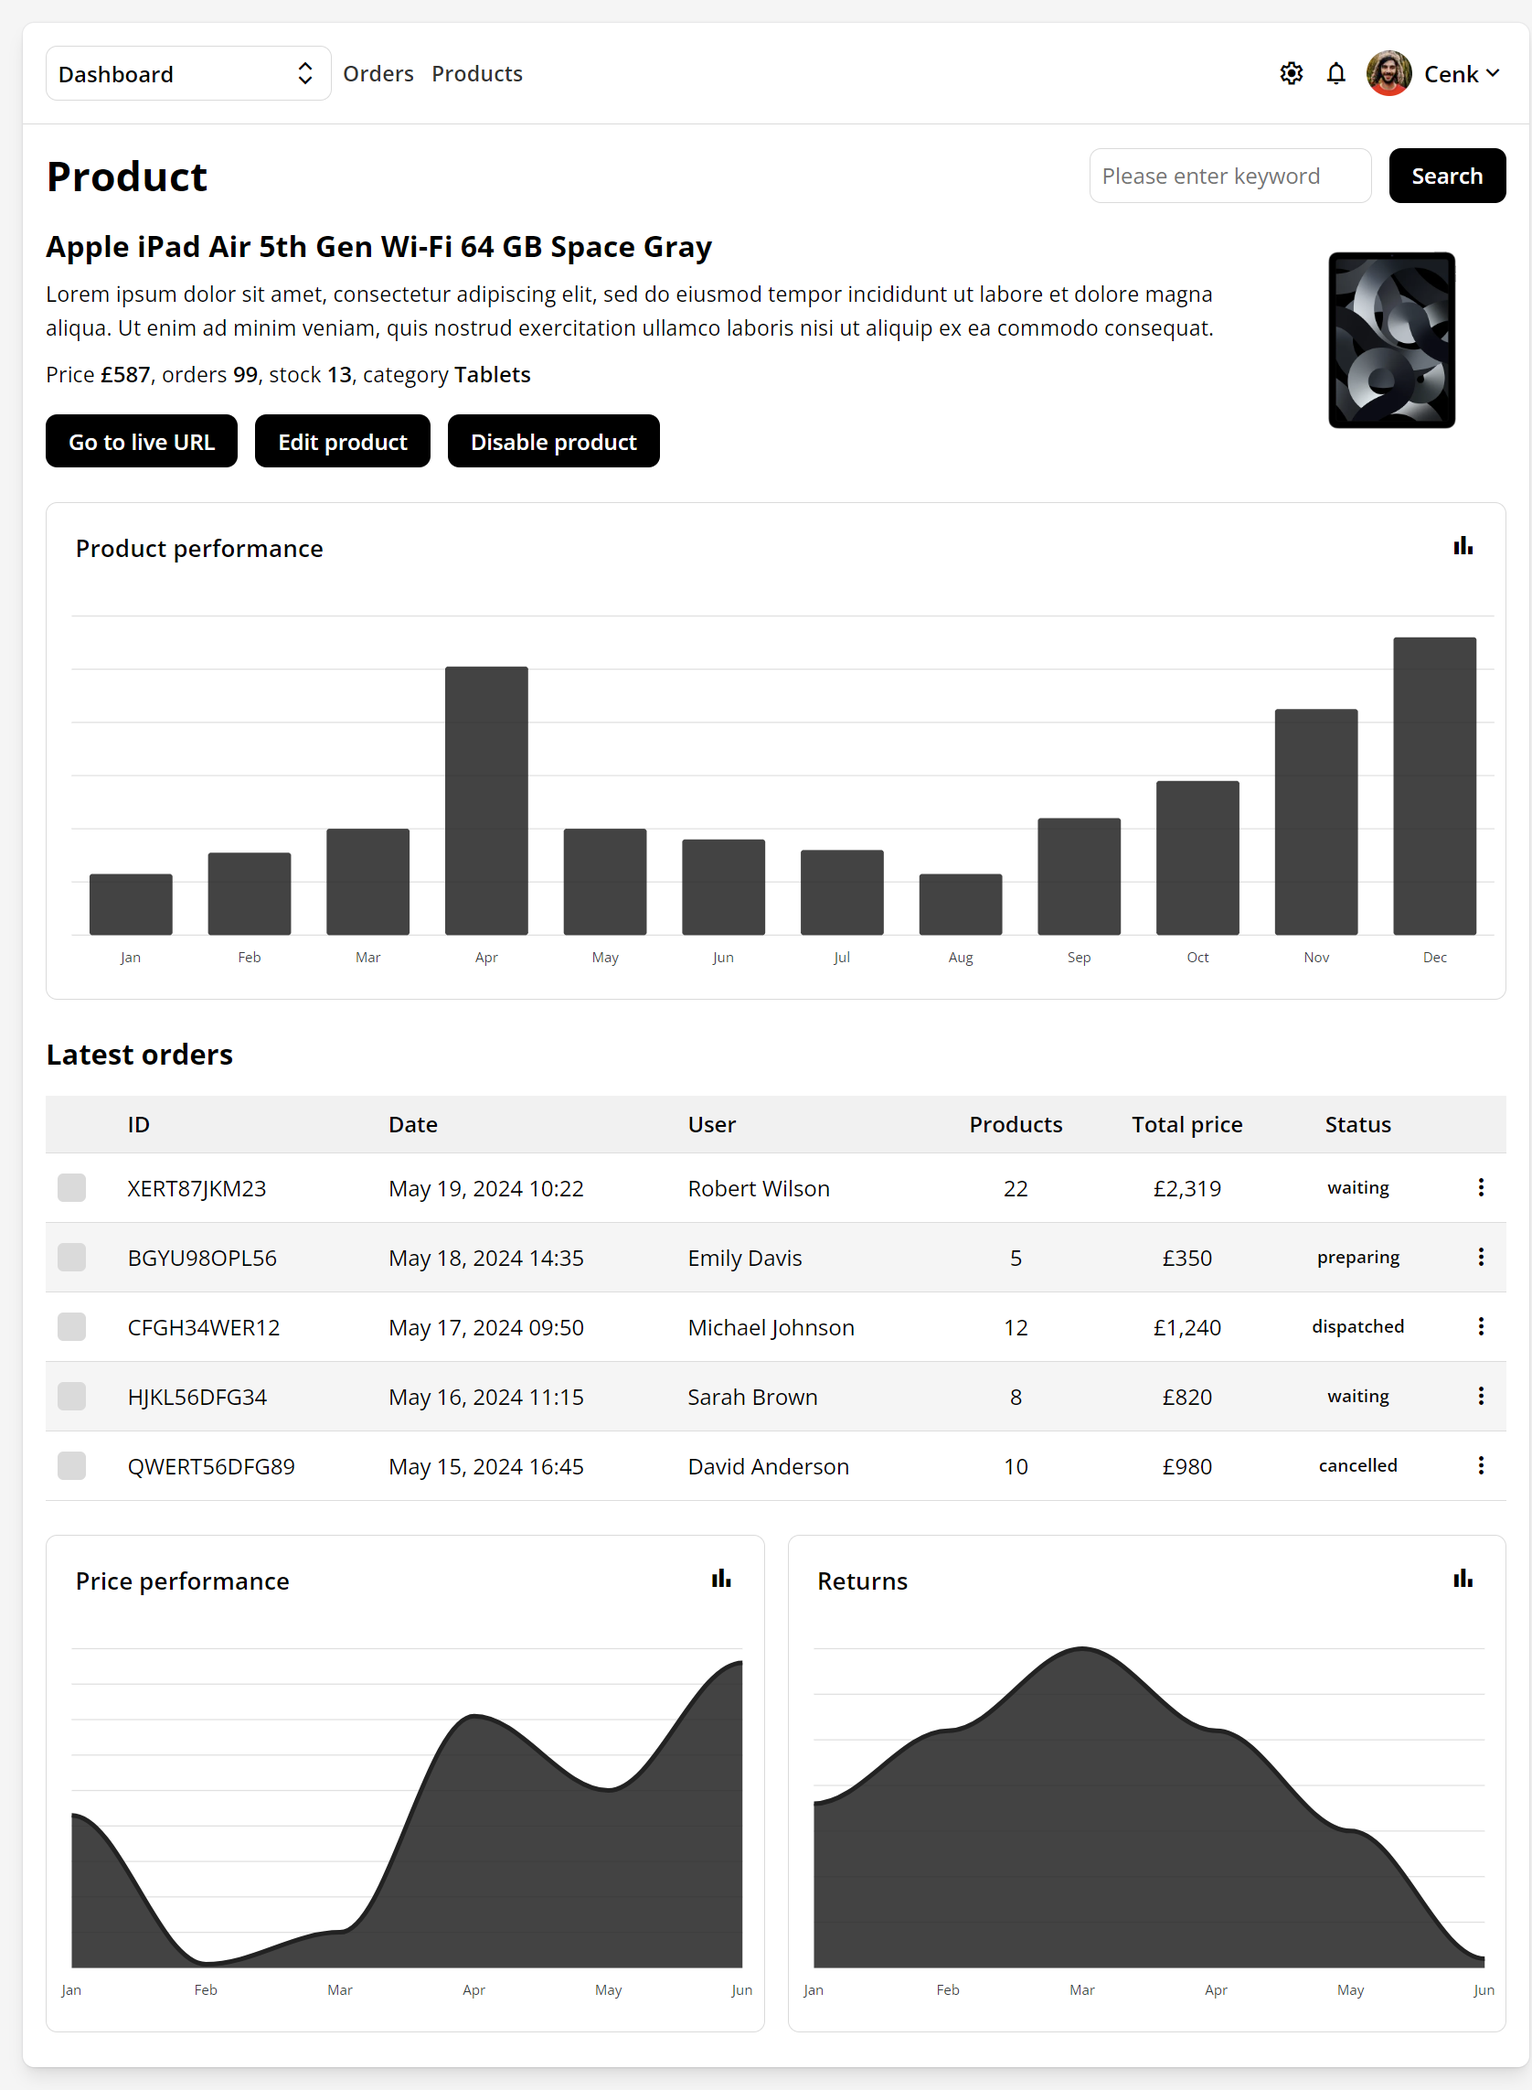
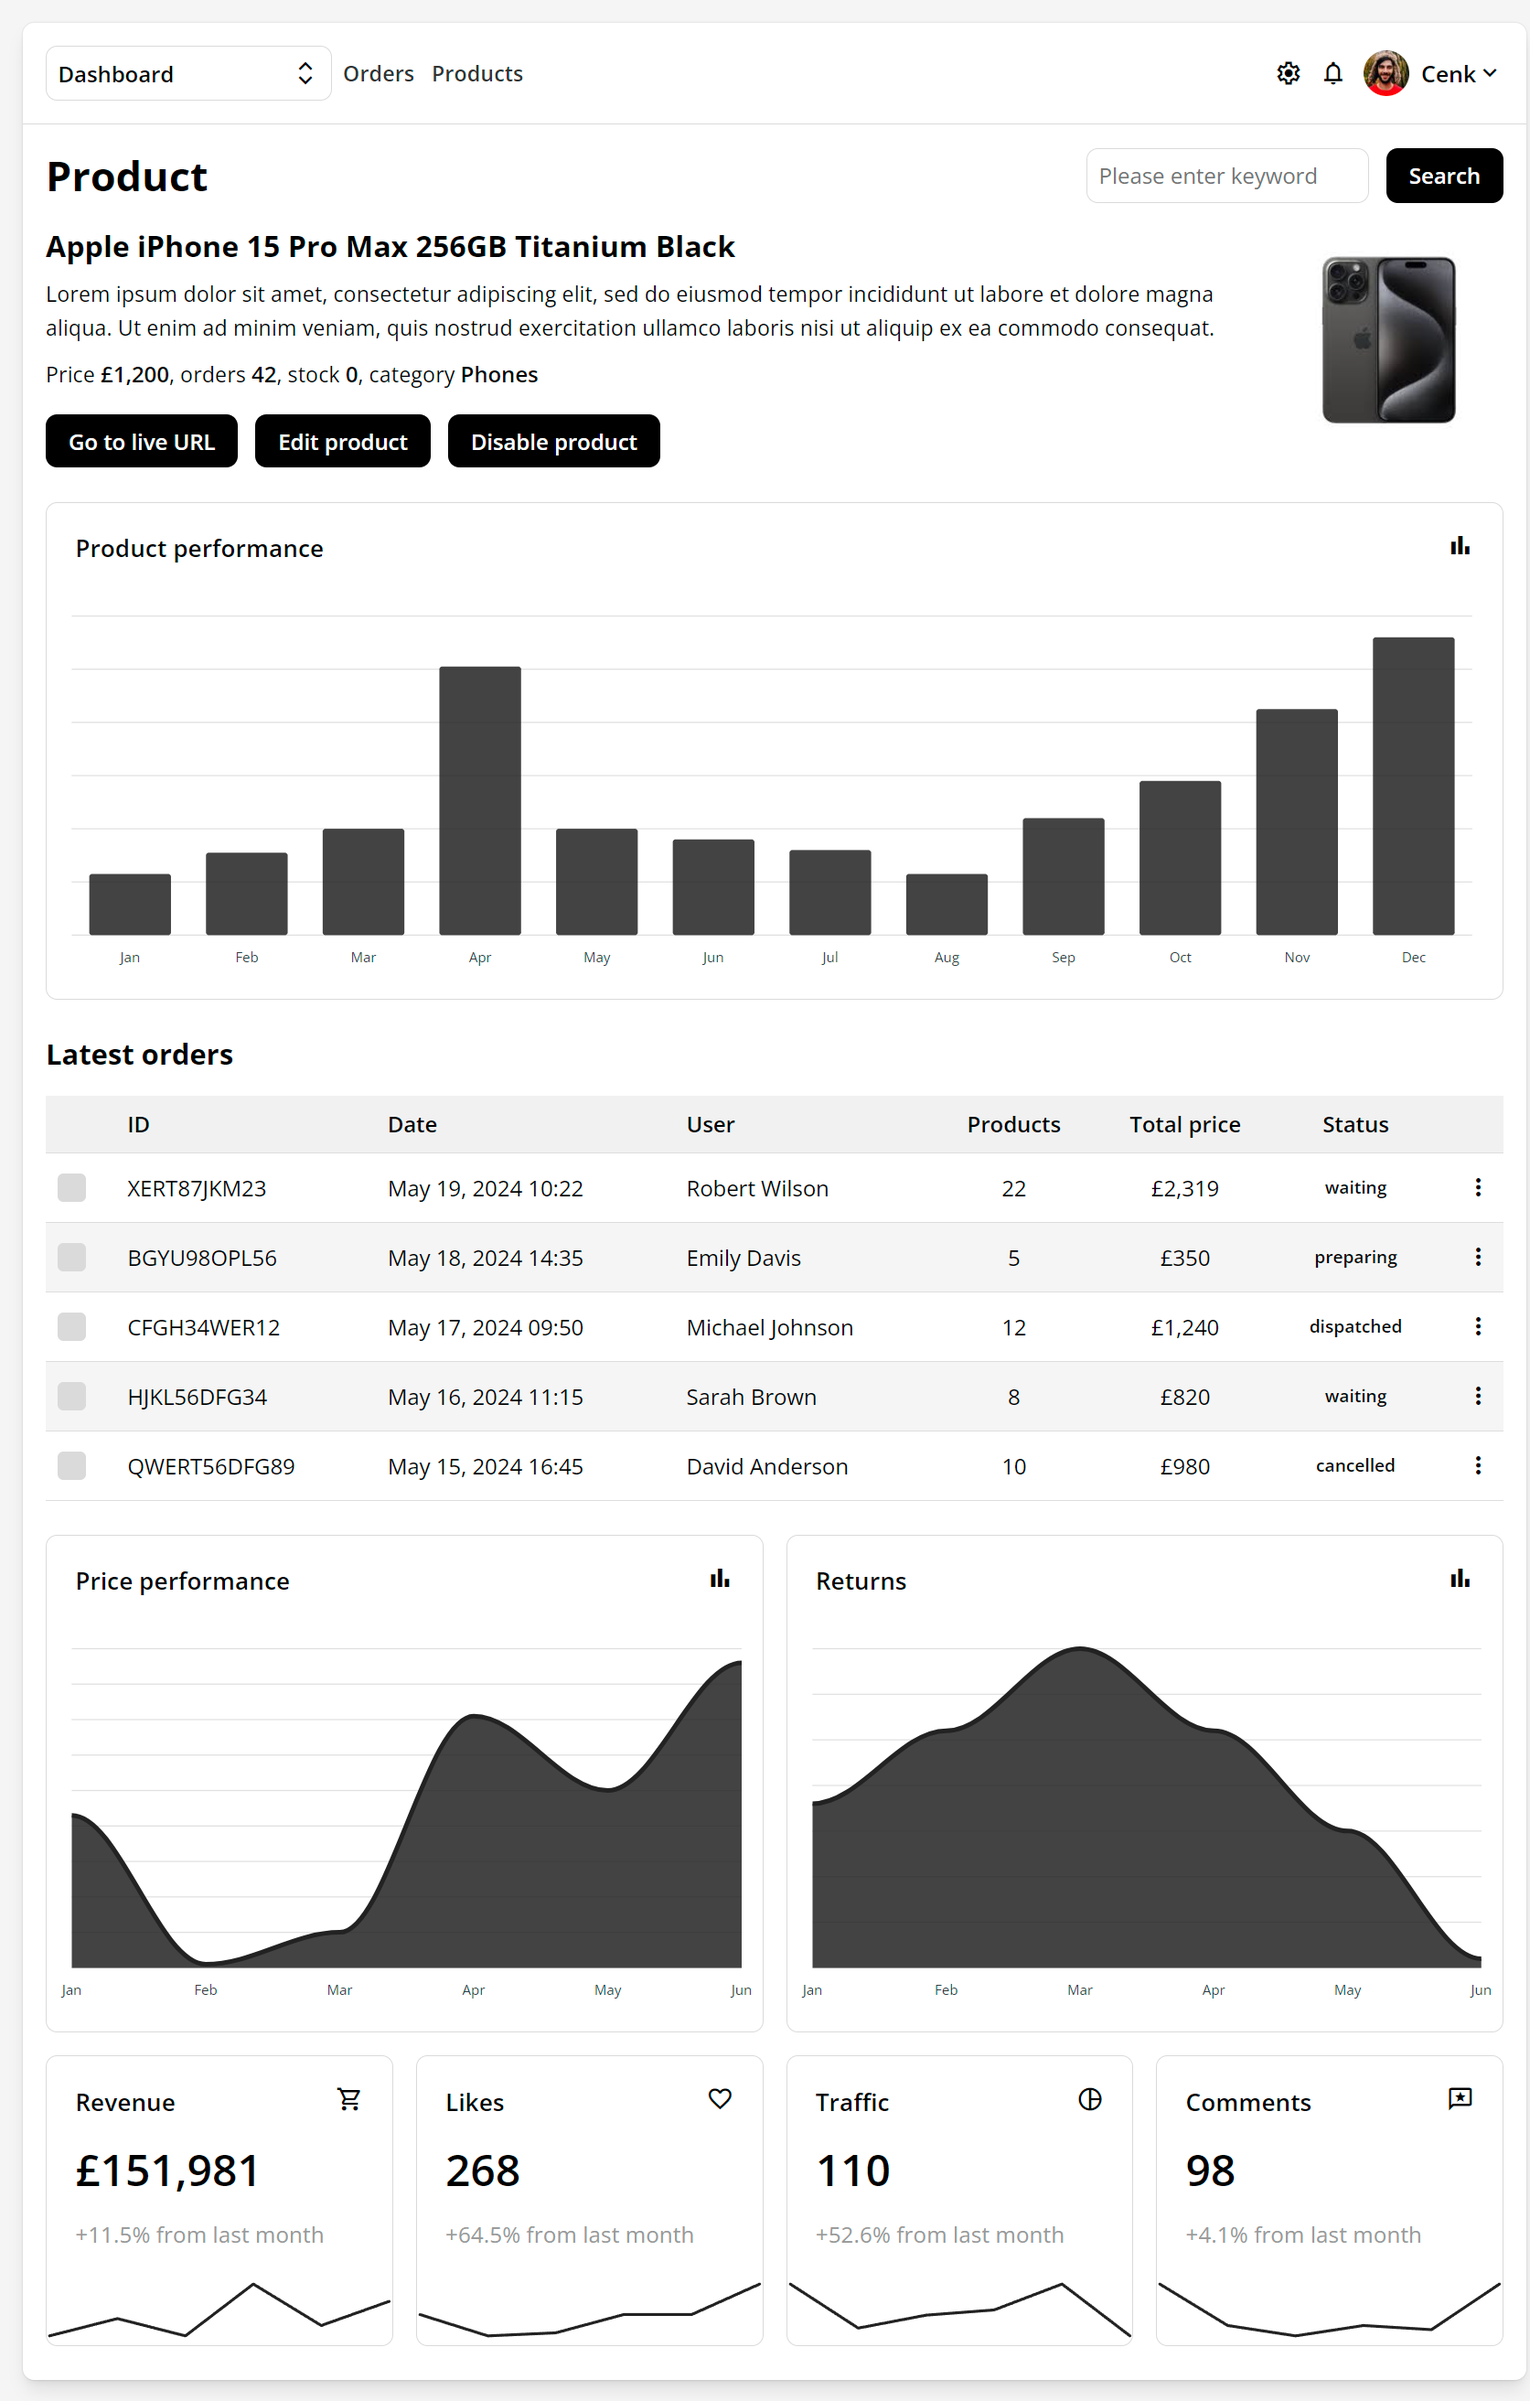
product page

diff --git a/src/pages/Product/Product.tsx b/src/pages/Product/Product.tsx
@@ -12,6 +12,7 @@ import OrderRow from '../../components/Tables/OrderRow';
 import BarChart from '../../components/Charts/BarChart';
 import Heading from '../../components/Headings/Heading';
 import AreaChart from '../../components/Charts/AreaChart';
+import Sparkline from '../../components/Charts/Sparkline';
 import Container from '../../components/Containers/Container';
 import BoxContainer from '../../components/Containers/BoxContainer';
 
@@ -122,6 +123,32 @@ const Product = (): React.JSX.Element => {
           </Box>
           <Box type='multi' title='Returns' icon='bar_chart'>
             <AreaChart series={series3} />
+          </Box>
+        </BoxContainer>
+
+        <BoxContainer boxes={4}>
+          <Box type='multi' title='Revenue' icon='shopping_cart'>
+            <p className='data'>{formatCurrency(151981)}</p>
+            <p className='muted'>+11.5% from last month</p>
+            <Sparkline data={[5, 10, 5, 20, 8, 15]} />
+          </Box>
+
+          <Box type='multi' title='Likes' icon='favorite'>
+            <p className='data'>268</p>
+            <p className='muted'>+64.5% from last month</p>
+            <Sparkline data={[10, 3, 4, 10, 10, 20]} />
+          </Box>
+
+          <Box type='multi' title='Traffic' icon='pie_chart'>
+            <p className='data'>110</p>
+            <p className='muted'>+52.6% from last month</p>
+            <Sparkline data={[20, 3, 8, 10, 20, 0]} />
+          </Box>
+
+          <Box type='multi' title='Comments' icon='reviews'>
+            <p className='data'>98</p>
+            <p className='muted'>+4.1% from last month</p>
+            <Sparkline data={[30, 10, 5, 10, 8, 30]} />
           </Box>
         </BoxContainer>
       </Container>
